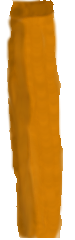
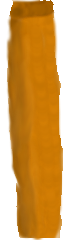
Commit 7

diff --git a/Cornhole Simulator 2/Game.cs b/Cornhole Simulator 2/Game.cs
@@ -72,10 +72,33 @@ namespace Cornhole_Simulator_2
             g.DrawString(player1Score.ToString() + "-" + player2Score.ToString(), new Font(this.Font.FontFamily, 25, FontStyle.Bold), Brushes.Black, width / 2 - 30, 0);
 
             //draw hand
-            Point[] pointsForArm1 = { new Point(width / 2 - arm1.Width / 2, height - arm1.Height), new Point(width / 2 + arm1.Width / 2, height - arm1.Height), new Point(width / 2 - arm1.Width / 2, height)};
-            Point[] pointsForArm2 = { new Point(), new Point(), new Point()};
+            int topOfArm1 = height - arm1.Height + 50;
+            int bottomOfArm1 = height;
+
+            int topOfArm2 = height - arm1.Height - 100;
+            int bottomOfArm2 = topOfArm1;
+
+            Point[] pointsForArm1 = {
+                new Point(width / 2 - arm1.Width / 2, topOfArm1),
+                new Point(width / 2 + arm1.Width / 2, topOfArm1),
+                new Point(width / 2 - arm1.Width / 2, bottomOfArm1)};
+            Point[] pointsForArm2 = {
+                new Point(width / 2 - arm2.Width / 2, topOfArm2),
+                new Point(width / 2 + arm2.Width / 2, topOfArm2),
+                new Point(width / 2 - arm1.Width / 2 - 20, bottomOfArm2 + 10)};
+
             g.DrawImage(arm1, pointsForArm1);
             g.DrawImage(arm2, pointsForArm2);
+        }
+
+        //canvas mouse move
+        private void canvas_MouseMove(object sender, MouseEventArgs e)
+        {
+            int x = e.X;
+            int y = e.Y;
+            int width = canvas.Width;
+            int height = canvas.Height;
+
         }
     }
 }

diff --git a/Cornhole Simulator 2/Game.Designer.cs b/Cornhole Simulator 2/Game.Designer.cs
@@ -47,6 +47,7 @@
             this.canvas.TabIndex = 0;
             this.canvas.TabStop = false;
             this.canvas.Paint += new System.Windows.Forms.PaintEventHandler(this.canvas_Paint);
+            this.canvas.MouseMove += new System.Windows.Forms.MouseEventHandler(this.canvas_MouseMove);
             // 
             // timer
             // 
